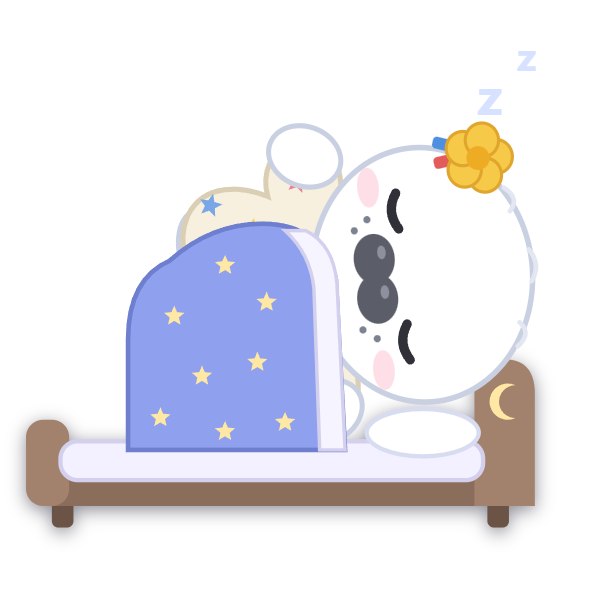
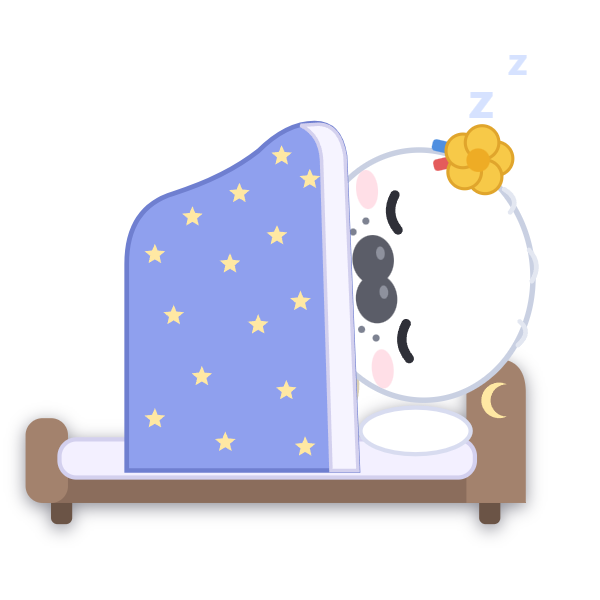
Version 2026-10-08.7 : la couverture couvre tout Tino au lit

diff --git a/mascot.js b/mascot.js
@@ -45,6 +45,7 @@ const STYLE = `
 .ms-bed, .ms-blanket { position: absolute; left: 0; top: 0; pointer-events: none; opacity: 0; transform-origin: 50% 50%; will-change: transform, opacity; }
 .ms-bed svg, .ms-blanket svg { width: 100%; height: 100%; display: block; overflow: visible; }
 .ms-bed svg { filter: drop-shadow(0 1px 2px rgba(0, 0, 20, 0.45)); }
+.ms-tucked .ms-arm-l, .ms-tucked .ms-arm-r, .ms-tucked .ms-foot-l, .ms-tucked .ms-foot-r { visibility: hidden; }
 .ms-prop { position: absolute; left: 0; top: 0; pointer-events: none; opacity: 0; transform-origin: 50% 50%; will-change: transform, opacity; }
 .ms-prop[hidden] { display: none; }
 .ms-prop svg { width: 100%; height: 100%; display: block; overflow: visible; filter: drop-shadow(0 1px 2px rgba(0, 0, 20, 0.45)); }
@@ -203,12 +204,14 @@ const BED = `<svg viewBox="0 0 ${BED_W} ${BED_H}" aria-hidden="true">
   <rect x="9" y="${MATTRESS}" width="98" height="9" rx="4" fill="#f3f0ff" stroke="#d3d0ee" stroke-width="1"/>
   <ellipse cx="93" cy="${MATTRESS - 2}" rx="13" ry="5.5" fill="#ffffff" stroke="#d8dcf0" stroke-width="1"/>
 </svg>`;
-// La couverture (devant Tino) : repère 100 × 110, posée sur le matelas, couvre son corps de ses pieds jusqu'au cou
-// (pieds à gauche) ; sa tête reste dehors
-const BLANKET = `<svg viewBox="0 0 100 110" aria-hidden="true">
-  <path d="M0 110V62Q0 36 18 28Q36 12 58 12Q84 12 90 36L94 110Z" fill="#8fa0ee" stroke="#6f7fd0" stroke-width="2"/>
-  <path d="M77 15Q89 21 90.5 38L94 110H83L80.5 40Q79 25 68 15Z" fill="#f6f4ff" stroke="#d3d0ee" stroke-width="1.5"/>
-  ${[[20, 52], [42, 30], [60, 46], [32, 78], [56, 72], [68, 98], [14, 96], [42, 102]].map(([x, y]) => star(x, y, 4.6, "#ffe8a3")).join("")}
+// La couverture (devant Tino) : repère 100 × 158 (= ses proportions à l'écran, placeBed), posée sur le matelas, couvre
+// TOUT son corps, pieds compris, jusqu'au cou (pieds à gauche) ; le haut suit son corps couché avec de la marge (mesuré :
+// avant, bord trop bas à gauche → ses pieds et son corps dépassaient, vu par Tony) ; sa tête reste dehors.
+// Nageoires et pieds cachés dessous (classe ms-tucked).
+const BLANKET = `<svg viewBox="0 0 100 158" aria-hidden="true">
+  <path d="M2 158V70Q2 46 22 40Q44 33 58 22Q70 10 82 10Q93 10 95 24L100.5 158Z" fill="#8fa0ee" stroke="#6f7fd0" stroke-width="2"/>
+  <path d="M84 10.5Q93 11 95 24L100.5 158H89L85 26Q84.5 15 76 11Z" fill="#f6f4ff" stroke="#d3d0ee" stroke-width="1.5"/>
+  ${[[14, 66], [30, 50], [50, 40], [68, 24], [80, 34], [22, 92], [46, 70], [66, 58], [34, 118], [58, 96], [76, 86], [14, 136], [44, 146], [70, 124], [78, 148]].map(([x, y]) => star(x, y, 4.6, "#ffe8a3")).join("")}
 </svg>`;
 
 // Objets posés sur la ligne à côté de lui (dessinés avec Tino à GAUCHE ; retournés s'il est à droite, sauf l'écran) :
@@ -1253,6 +1256,7 @@ class Mascot {
   placeBed(bw) {
     const P = this.bedAt && this.plat(this.bedAt.k), show = this.bedK > 0.01 && !!P;
     this.bedEl.style.visibility = this.blanketEl.style.visibility = show ? "visible" : "hidden";
+    this.el.classList.toggle("ms-tucked", show && this.bedK * this.lie > 0.5); // (bordé : nageoires et pieds sous la couverture)
     if (!show) return;
     const bh = bw * BED_H / BED_W, x = this.bedAt.x, s = this.side, W = this.size;
     // l'oreiller (x = 93 sur 120) sous sa tête (≈ 0,15 × sa taille du côté de la tête), sans sortir de la case
@@ -1262,11 +1266,11 @@ class Mascot {
     this.bedEl.style.height = bh.toFixed(1) + "px";
     this.bedEl.style.opacity = this.bedK.toFixed(3);
     this.bedEl.style.transform = `translate3d(${(bx - bw / 2).toFixed(1)}px, ${(P.y - bh).toFixed(1)}px, 0) scaleX(${s})`;
-    const kw = W * 0.58, kh = kw * 1.3, top = P.y - bw * (BED_H - MATTRESS) / BED_W + W * 0.08 - kh;
+    const kw = W * 0.6, kh = W * 0.95, top = P.y - bw * (BED_H - MATTRESS) / BED_W + W * 0.08 - kh; // (kh / kw = repère 158 / 100)
     this.blanketEl.style.width = kw.toFixed(1) + "px";
     this.blanketEl.style.height = kh.toFixed(1) + "px";
     this.blanketEl.style.opacity = (this.bedK * this.lie).toFixed(3); // il se lève (on l'a touché) : la couverture s'efface
-    this.blanketEl.style.transform = `translate3d(${(x - s * W * 0.3 - kw / 2).toFixed(1)}px, ${top.toFixed(1)}px, 0) scaleX(${s})`;
+    this.blanketEl.style.transform = `translate3d(${(x - s * kw / 2 - kw / 2).toFixed(1)}px, ${top.toFixed(1)}px, 0) scaleX(${s})`;
   }
 
   // Bannière de fin de partie : centrée entre lui et l'écran, au-dessus d'eux, sans sortir de l'écran ; elle apparaît en
@@ -1523,7 +1527,7 @@ export function demoPose(box, kind, type, size, dir = 1, cell = Infinity, { loop
 // PNG. Sert à l'app (images habillées du widget, 18_widget_scenes.sql) et à design/make-tino-widget.html (images de base
 // widget/tino/*.png). Une tenue doit être en adresses data: (une image SVG ne charge rien d'autre). Changer SCENES_V si
 // le dessin de Tino ou les scènes changent (les images habillées sont alors refaites ; refaire aussi les images de base).
-export const SCENES_V = 1;
+export const SCENES_V = 2;
 export const WIDGET_SCENES = [ // [nom, pose de demoPose, temps de l'action (s), réglages]
   ["sleep", "bed", 3], ["cook", "cook", 2.2], ["bbq", "bbq", 1], ["rice", "rice", 2], ["pho", "pho", 2, { chop: true }],
   ["matcha", "matcha", 4], ["beer", "beer", 7, { gulp: true }], ["game", "game", 2], ["shop", "shop", 1.5], ["scooter", "scooter", 1.5],

diff --git a/sw.js b/sw.js
@@ -1,7 +1,7 @@
 // Service worker de MeoPeo : l'app s'ouvre même sans réseau (ses fichiers sont gardés sur le téléphone).
 // ⚠ À CHAQUE publication d'une nouvelle version : changer VERSION, sinon les téléphones gardent l'ancienne.
 // Les données (Supabase : tâches, connexion, temps réel) ne passent JAMAIS par ce cache.
-const VERSION = "2026-10-08.6";
+const VERSION = "2026-10-08.7";
 const CACHE = "meopeo-" + VERSION;
 const SHELL = [
   "./", "index.html", "app.js", "mascot.js", "bigtino.js", "data.js", "config.js", "style.css", "manifest.webmanifest",
